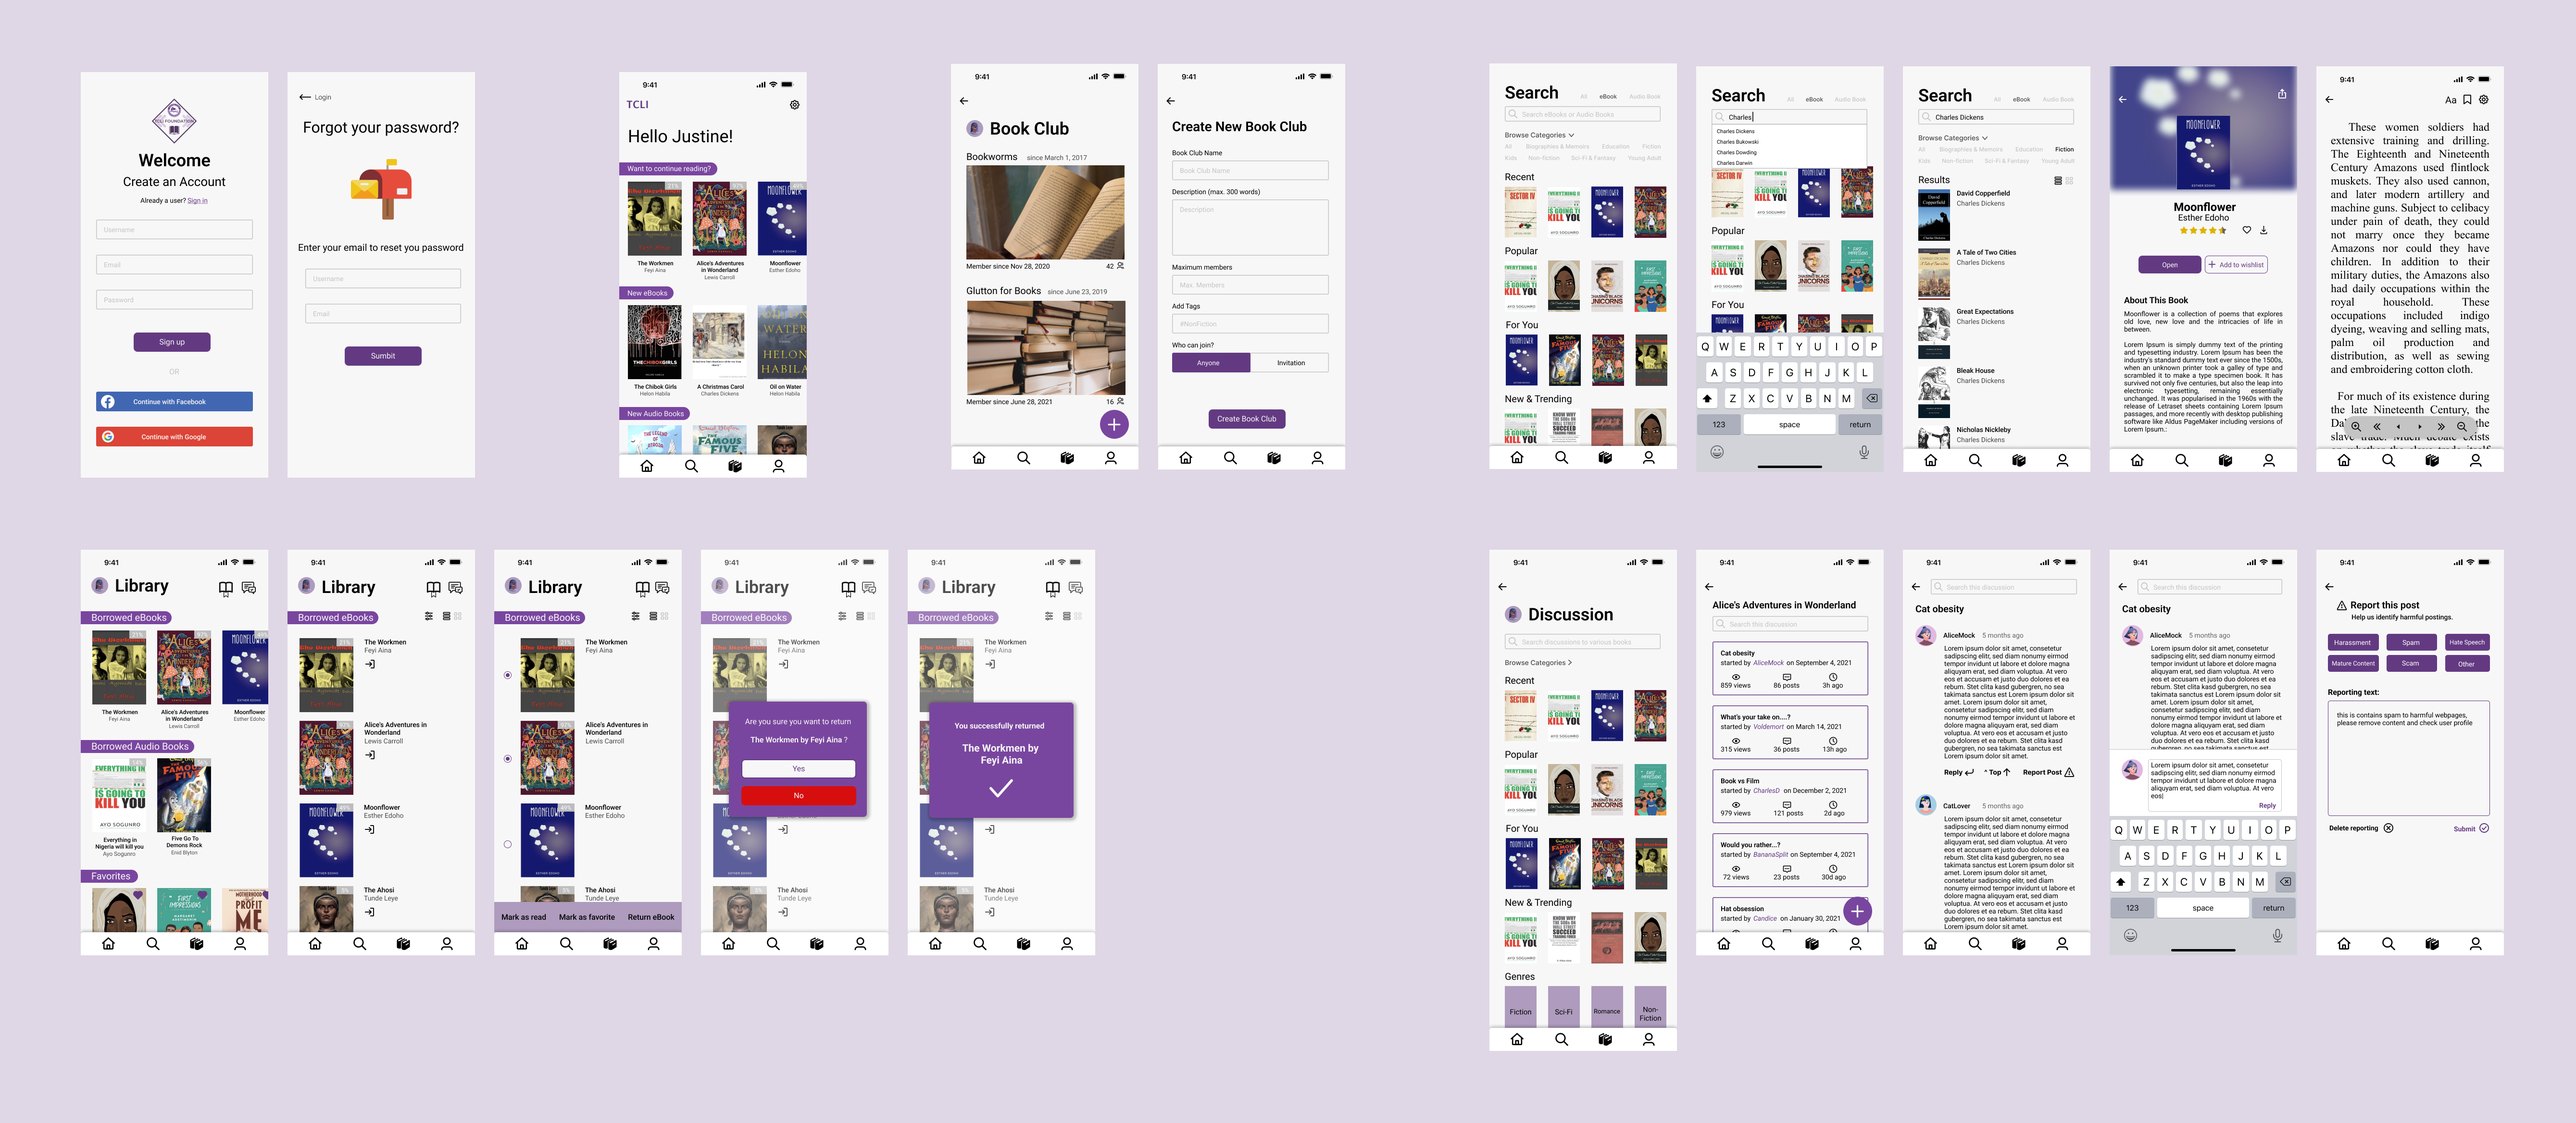
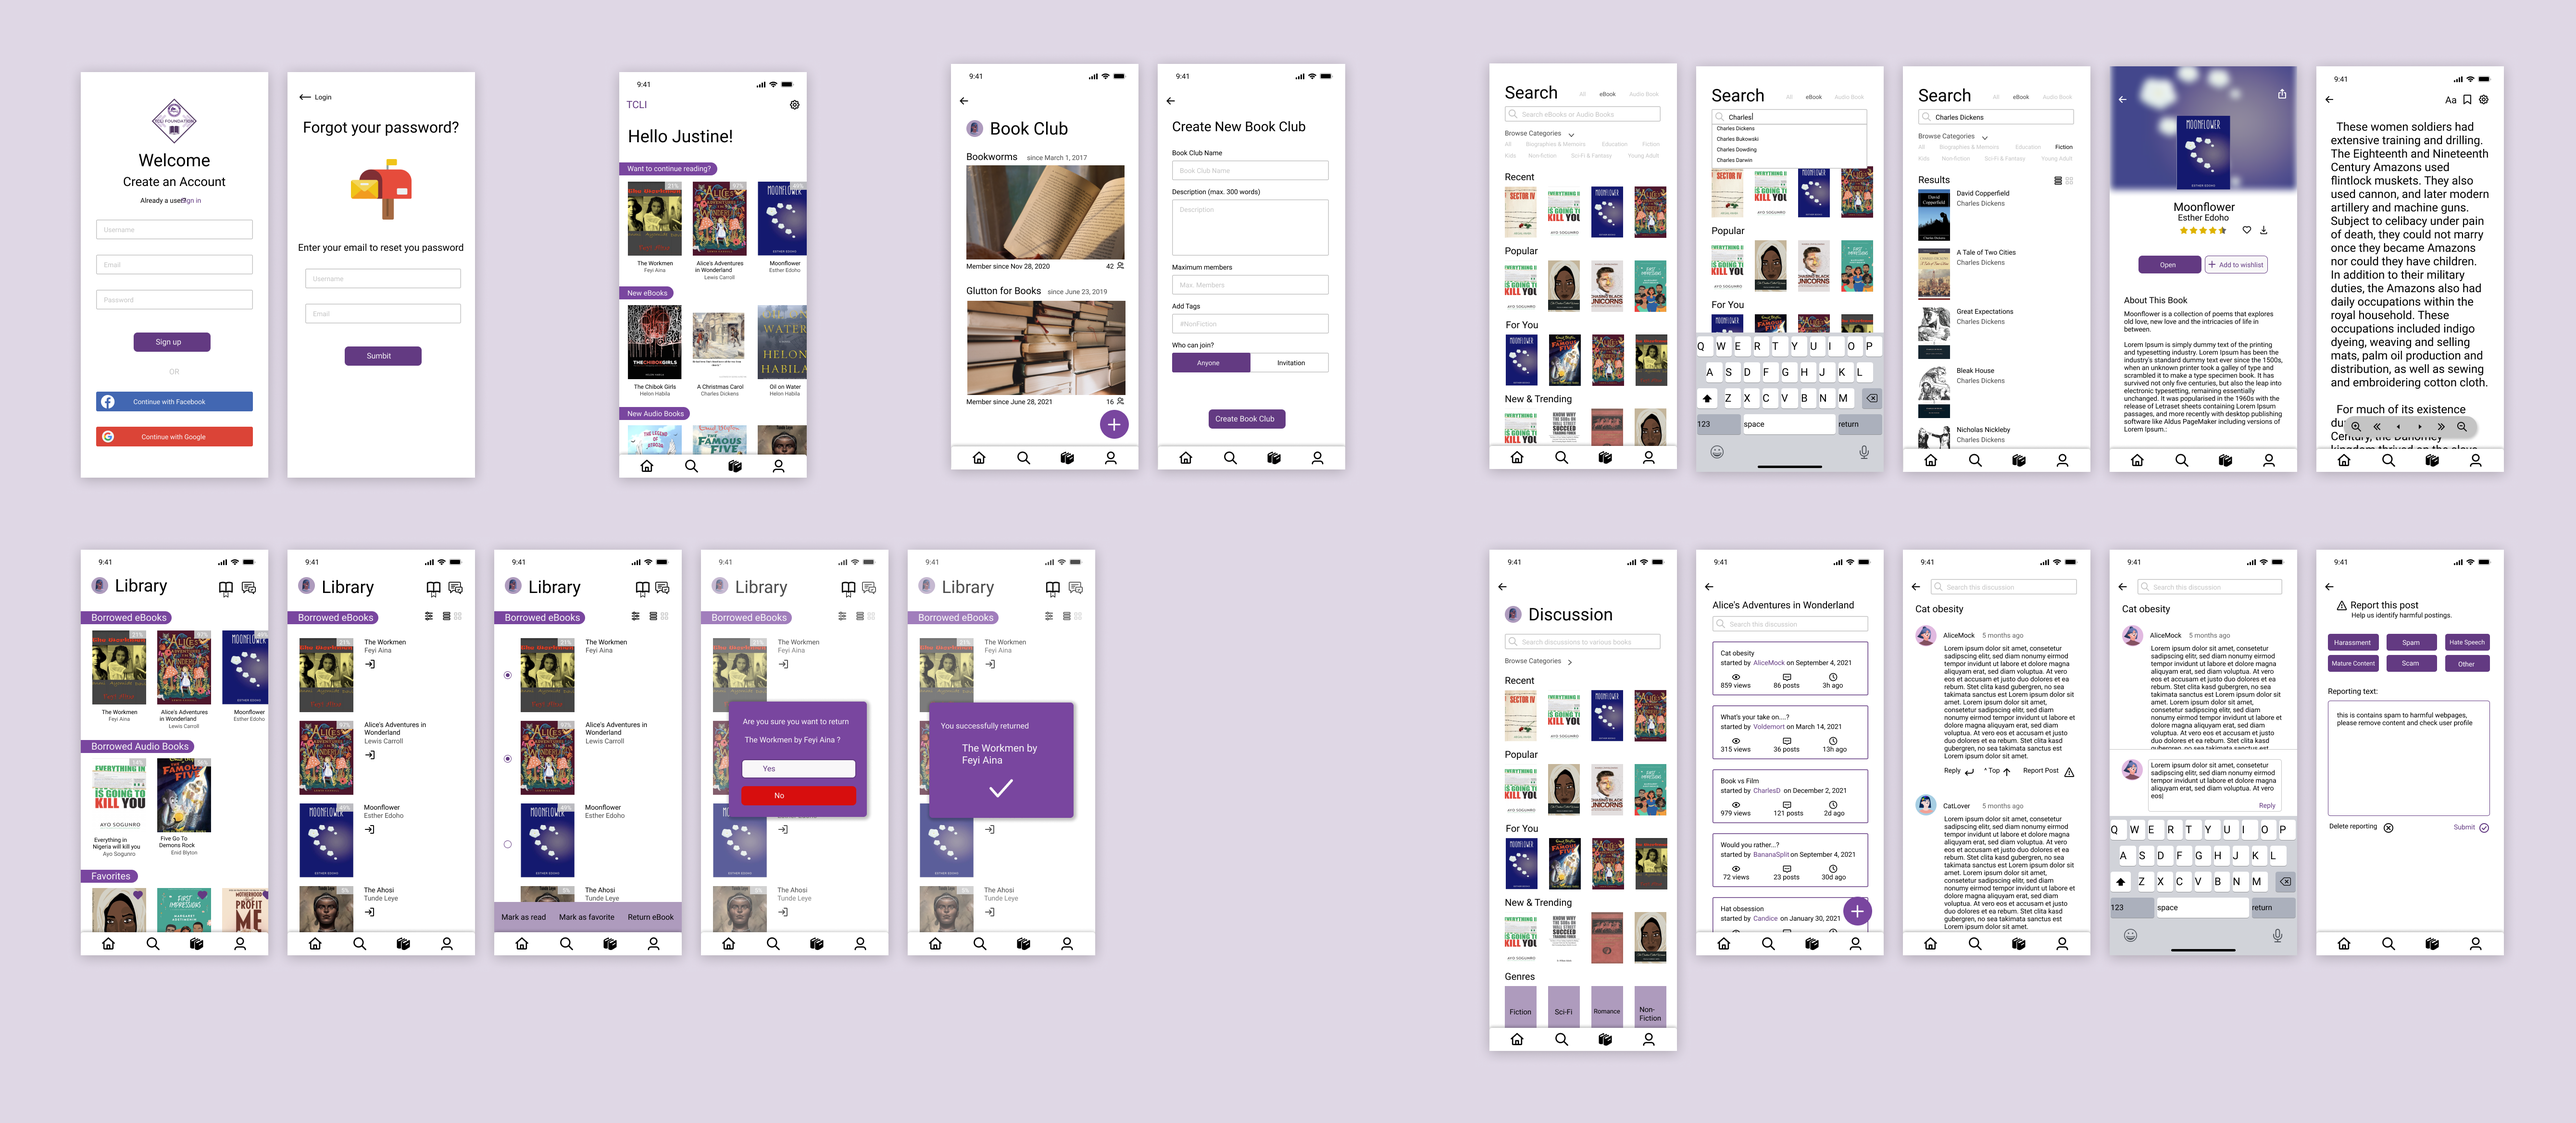
updated protojam, pics and typos

diff --git a/_projects/Protojam2022.md b/_projects/Protojam2022.md
@@ -1,6 +1,6 @@
 ---
 name: Designathon - ProtoJam 2022
-tools: [Figma, FigJam, Design Thinkinh]
+tools: [Figma, FigJam, Design Thinking]
 image: https://www.protojam.ca/static/media/logo_horizontalpurple.9be0e17d20900b2c1bab5716d743eee5.svg
 description: Design Hackathon organized and hosted by Ada’s Team of University of Alberta
 ---
